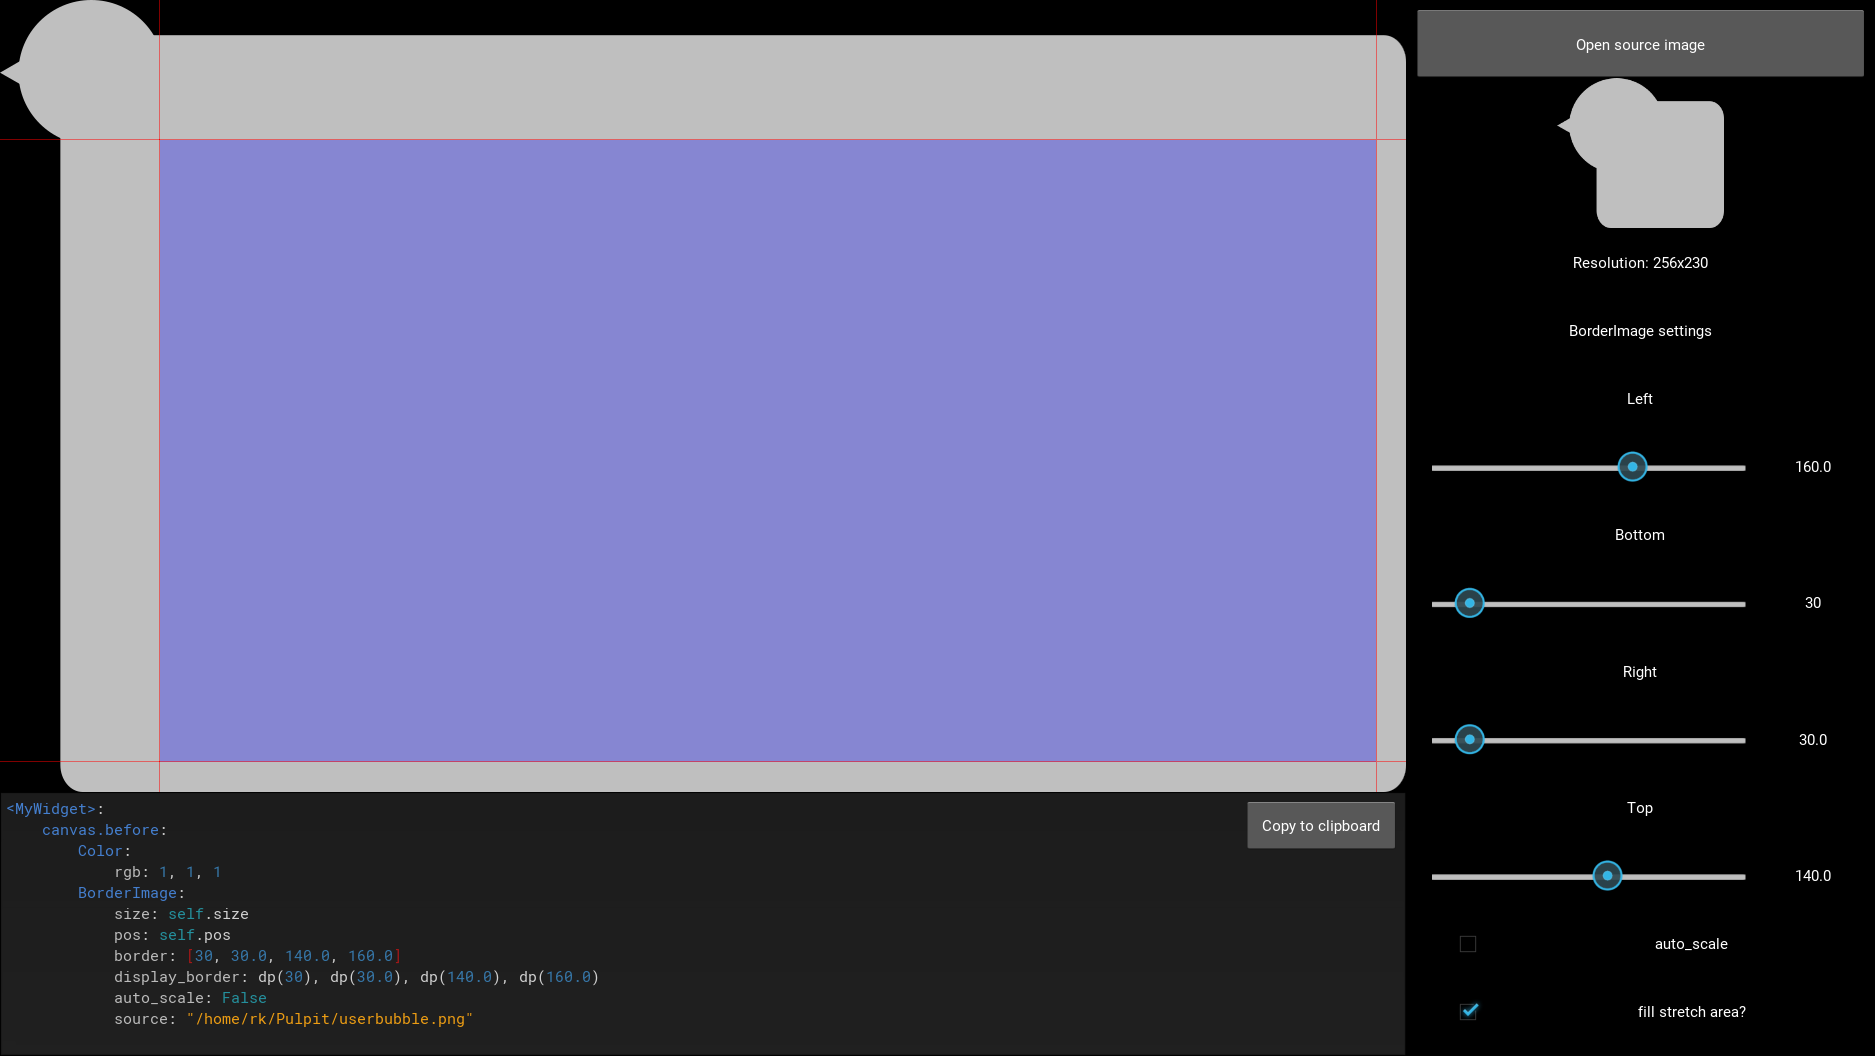
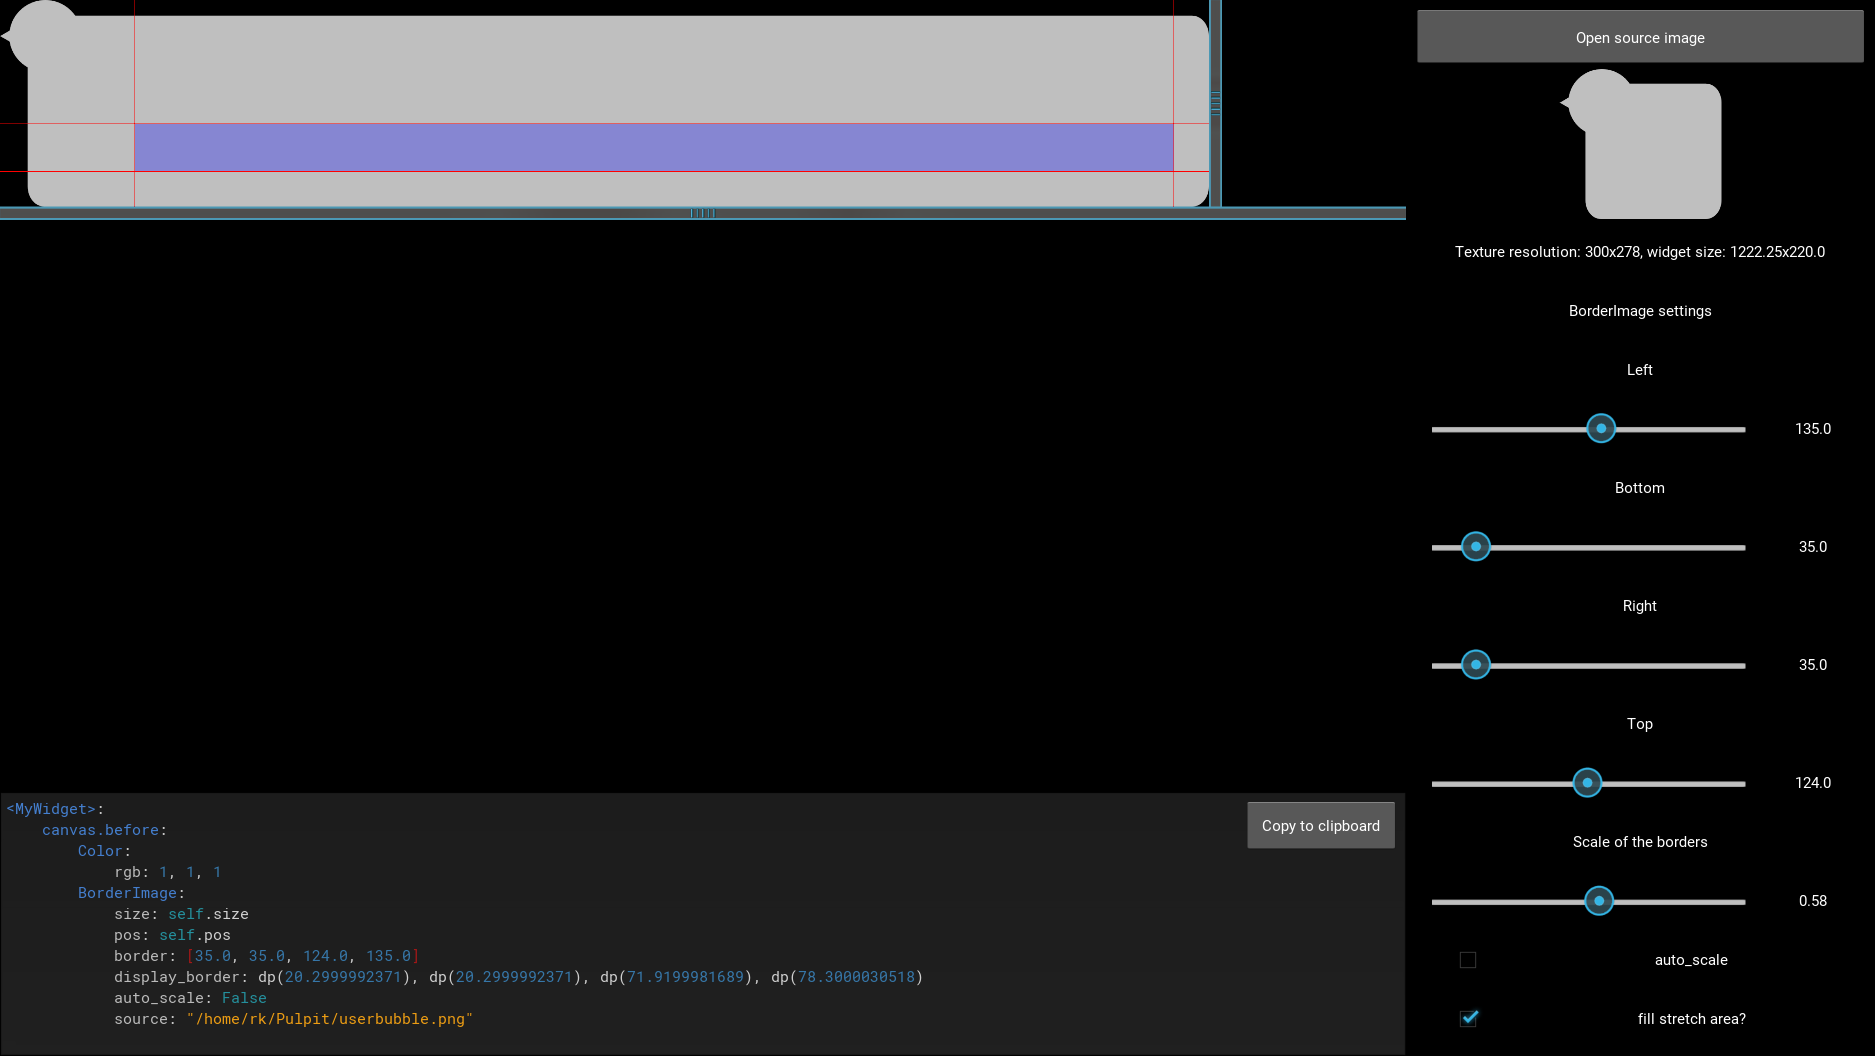
Added the scale property, splitters. App is now able to scale the border for small widgets.

diff --git a/main.py b/main.py
@@ -11,7 +11,8 @@ from kivy.uix.boxlayout import BoxLayout
 from kivy.properties import (
     BooleanProperty,
     ListProperty,
-    StringProperty
+    StringProperty,
+    NumericProperty
 )
 from kivy.clock import mainthread
 from plyer import filechooser
@@ -33,8 +34,14 @@ class BorderImageWidget(Widget):
     border = ListProperty([0, 0, 0, 0])
     '''Border of the image taken from source, set by the user.'''
 
+    display_border = ListProperty([0, 0, 0, 0])
+    '''Size of the border on the display.'''
+
     fill_stretch_area = BooleanProperty(False)
     '''Defines if stretch area should be filled with semitransparent color.'''
+
+    scale = NumericProperty(1.0)
+    '''Scale of the borders.'''
 
 class BorderImageTool(BoxLayout):
     '''Main app widget.'''

diff --git a/README.md b/README.md
@@ -10,9 +10,11 @@ Program supports:
 * setting the bottom, right, left and top border value
 * setting the auto_scale property for border
 * automatic converting the border size in pixels to corresponding display_border expressed in density independent pixels (dp), to make sure your widget scales well with the different screen sizes, DPI and resolutions
+* option to scale the border to via scale property, so you can resize the border to acomodate to small size widget
+* option to scale thw widget size so you can see how your widget with needed width/height will look like
 * ability to show the area to be stretched (just tick the fill stretch area checkbox)
 * display of the borders placement in the widget coordinates
-* selected image preview with resolution information
+* selected image preview with resolution information + widget size information
 * **HUGE!** automatic KV Language generation for your custom widget with ability to easily copy it and use in your program
 
 Application is young and may be extended in the future with better UI and more solid I/O, however you should "take it as it is". I think its a nice utility when you must create nice, custom shape widget and you find Kivy BorderImage docs too weak in that area. Manual testing of the code turn-by-turn is not so easy, so why not to use magic of Kivy and be able to see your progress live and working? :)
